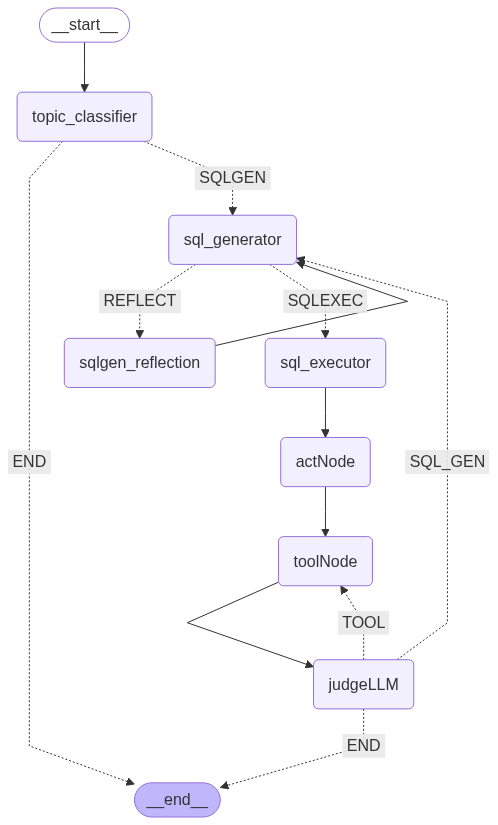
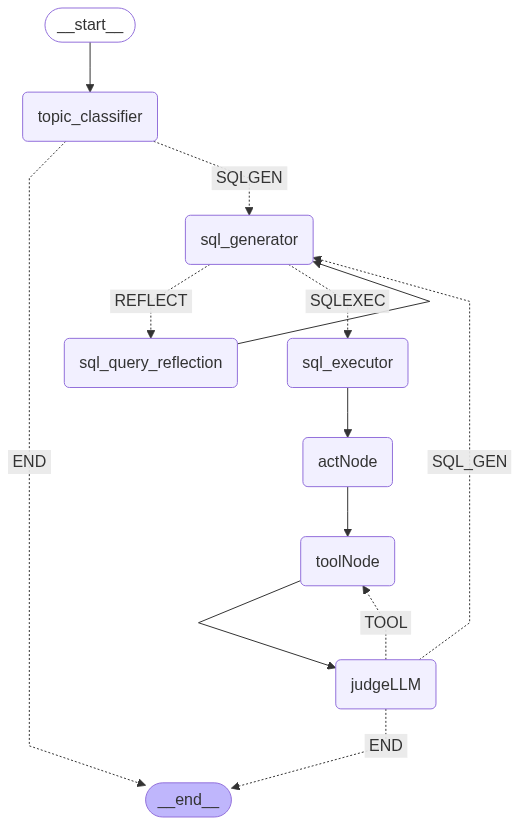
minor changes

diff --git a/SQLQuery_Agent/src/agentic_workflow.py b/SQLQuery_Agent/src/agentic_workflow.py
@@ -14,7 +14,7 @@ import io
 workflowGraph = StateGraph(AgentState)
 workflowGraph.add_node("topic_classifier",on_topic_classifier)
 workflowGraph.add_node("sql_generator",SQLGenerator)
-workflowGraph.add_node("sqlgen_reflection",reflect)
+workflowGraph.add_node("sql_query_reflection",reflect)
 workflowGraph.add_node("sql_executor",SQLExecutor)
 workflowGraph.add_node("actNode",act)
 workflowGraph.add_node("toolNode",execute_tools)
@@ -55,11 +55,11 @@ workflowGraph.add_conditional_edges("topic_classifier",
 
 workflowGraph.add_conditional_edges("sql_generator",reflect_iter,
                                     {
-                                        "REFLECT":"sqlgen_reflection",
+                                        "REFLECT":"sql_query_reflection",
                                         "SQLEXEC":"sql_executor"
 
                                     })
-workflowGraph.add_edge("sqlgen_reflection","sql_generator")
+workflowGraph.add_edge("sql_query_reflection","sql_generator")
 #workflowGraph.add_edge("sql_generator","sql_executor")
 workflowGraph.add_edge("sql_executor","actNode")
 workflowGraph.add_edge("actNode","toolNode")
